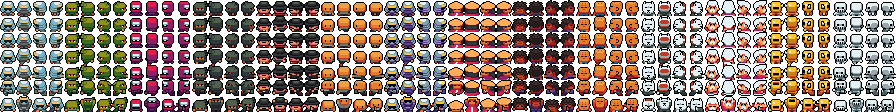
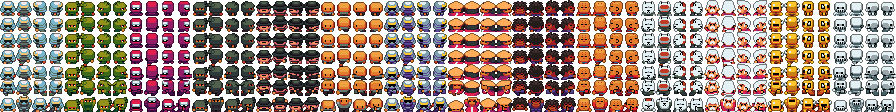
Combattants : contour noir du pack remplacé par la couleur voisine assombrie (plus de bordure noire en combat), ancien contour avec ?contour=noir

Changed region(s): [[0.0, 0.0, 1.0, 1.0]]

diff --git a/src/game/assets.ts b/src/game/assets.ts
@@ -8,6 +8,8 @@ export const PX = 3; // un pixel du pack = 3 unités du monde
 // Combattants et armes un peu plus grands que le reste du pack (4 au lieu de 3). Réglable avec ?px= pour comparer.
 const pxParam = typeof location !== 'undefined' ? Number(new URLSearchParams(location.search).get('px')) : 0;
 export const FIGHTER_PX = pxParam >= 2 && pxParam <= 6 ? pxParam : 4;
+// Contour des combattants : adouci par défaut (scripts/contour.py), noir d'origine du pack avec ?contour=noir.
+const contourNoir = typeof location !== 'undefined' && new URLSearchParams(location.search).get('contour') === 'noir';
 export const FIGHTER_K = FIGHTER_PX / PX; // facteur d'agrandissement, pour les décalages (main, ombre, bulles)
 export const FX_KEYS = [
   'hit',
@@ -44,7 +46,10 @@ export const FLOATS = ['nenuphar', 'fleur', 'glace', 'lave', 'lanterne', 'feuill
 const BASE = import.meta.env.BASE_URL + 'assets/';
 
 export function preloadAssets(scene: Phaser.Scene) {
-  scene.load.spritesheet('persos', BASE + 'persos.png', { frameWidth: 16, frameHeight: 16 });
+  scene.load.spritesheet('persos', BASE + (contourNoir ? 'persos-noir.png' : 'persos.png'), {
+    frameWidth: 16,
+    frameHeight: 16,
+  });
   scene.load.spritesheet('armes', BASE + 'armes.png', { frameWidth: 16, frameHeight: 16 });
   // Rastérisés à la taille demandée (4096 px de large au plus : limite des GPU mobiles) puis affichés à 2400 × 420.
   for (const t of THEME_BG) scene.load.svg('bg-' + t, BASE + 'decor/bg-' + t + '.svg', { width: 4096, height: 717 });

diff --git a/scripts/contour.py b/scripts/contour.py
@@ -1,0 +1,59 @@
+"""Adoucit le contour noir des combattants du pack Ninja Adventure.
+
+Le pack entoure chaque personnage d'un trait noir d'un pixel. Agrandi 4 fois en combat, il se voit comme
+une bordure noire. On remplace chaque pixel noir du bord extérieur par la couleur voisine, assombrie :
+le personnage garde une silhouette lisible sur tous les fonds, sans cadre noir. Les traits noirs à
+l'intérieur (yeux, bandeaux) ne changent pas.
+
+Usage : python3 scripts/contour.py <planche d'entrée> <planche de sortie> [taille d'une case, 16 par défaut]
+Appelé aussi par scripts/build-assets.py.
+"""
+import sys
+
+from PIL import Image
+
+SOMBRE = 40  # un pixel est « noir » si aucune de ses composantes ne dépasse cette valeur
+ASSOMBRIR = 0.5  # la couleur du contour = couleur voisine x ce facteur
+
+
+def adoucir(im, case=16):
+    im = im.convert('RGBA')
+    src = im.load()
+    out = im.copy()
+    dst = out.load()
+    w, h = im.size
+
+    def plein(x, y, cx, cy):  # opaque et dans la même case (les cases voisines ne débordent pas)
+        return cx <= x < cx + case and cy <= y < cy + case and src[x, y][3] > 0
+
+    def noir(p):
+        return p[3] > 0 and max(p[:3]) <= SOMBRE
+
+    for y in range(h):
+        for x in range(w):
+            p = src[x, y]
+            if not noir(p):
+                continue
+            cx, cy = x - x % case, y - y % case
+            if all(plein(x + dx, y + dy, cx, cy) for dx, dy in ((1, 0), (-1, 0), (0, 1), (0, -1))):
+                continue  # trait intérieur : on le garde
+            # couleur des voisins non noirs (proches d'abord, puis à deux pixels)
+            for r in (1, 2):
+                vois = [
+                    src[x + dx, y + dy]
+                    for dy in range(-r, r + 1)
+                    for dx in range(-r, r + 1)
+                    if plein(x + dx, y + dy, cx, cy) and not noir(src[x + dx, y + dy])
+                ]
+                if vois:
+                    break
+            if not vois:
+                continue  # pointe fine toute noire : on la garde
+            n = len(vois)
+            dst[x, y] = tuple(round(sum(v[i] for v in vois) / n * ASSOMBRIR) for i in range(3)) + (p[3],)
+    return out
+
+
+if __name__ == '__main__':
+    case = int(sys.argv[3]) if len(sys.argv) > 3 else 16
+    adoucir(Image.open(sys.argv[1]), case).save(sys.argv[2], optimize=True)

diff --git a/scripts/build-assets.py b/scripts/build-assets.py
@@ -14,6 +14,8 @@ import sys
 
 from PIL import Image
 
+from contour import adoucir
+
 NA, SP = sys.argv[1], os.path.join(sys.argv[2], 'ninja-adventure')
 OUT = os.path.join(os.path.dirname(__file__), '..', 'public', 'assets')
 # Assets générés mais plus utilisés par le jeu : gardés hors de public/ (non déployés).
@@ -74,7 +76,9 @@ def main():
             front = im.crop((0, 0, 16, 16)).resize((32, 32), Image.NEAREST)
             f.paste(front, (3, 6), front)
         faces.paste(f, (38 * i, 0))
-    sheet.save(os.path.join(OUT, 'persos.png'), optimize=True)
+    # Contour noir d'origine gardé à part pour comparer (?contour=noir), contour adouci par défaut.
+    sheet.save(os.path.join(OUT, 'persos-noir.png'), optimize=True)
+    adoucir(sheet).save(os.path.join(OUT, 'persos.png'), optimize=True)
     faces.save(os.path.join(OUT, 'portraits.png'), optimize=True)
 
     # Armes : pointe vers la droite, poignée à gauche, centrées dans une case de 16 px.
